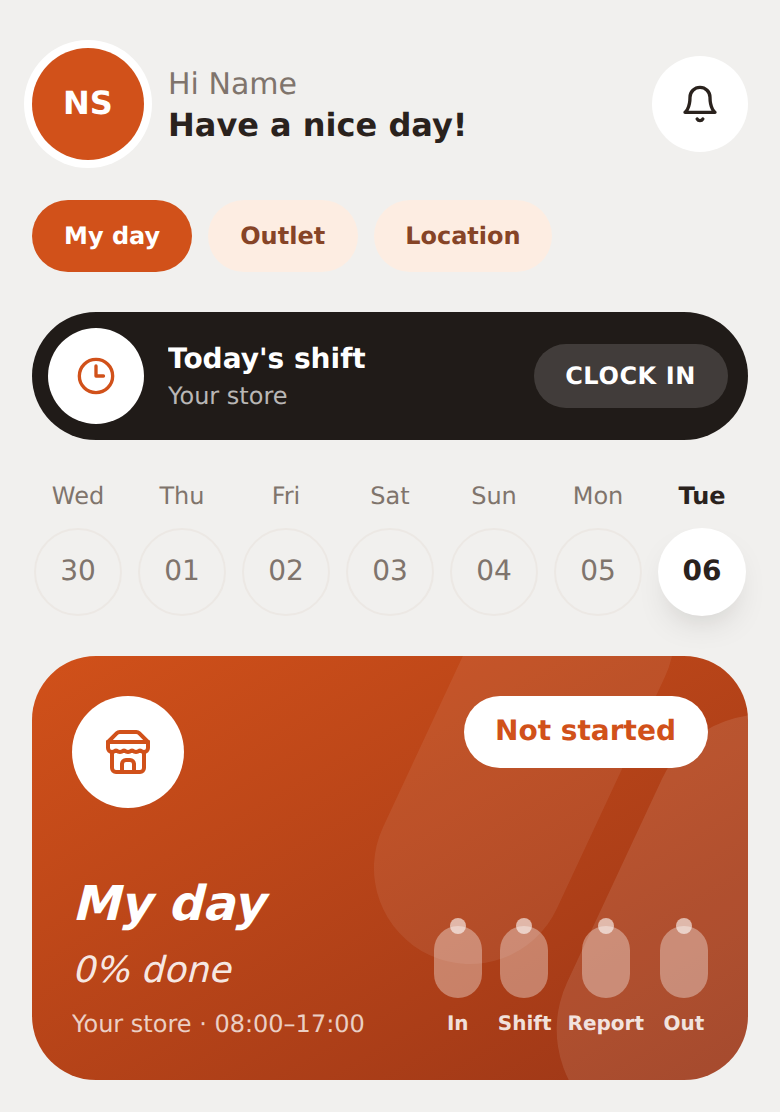
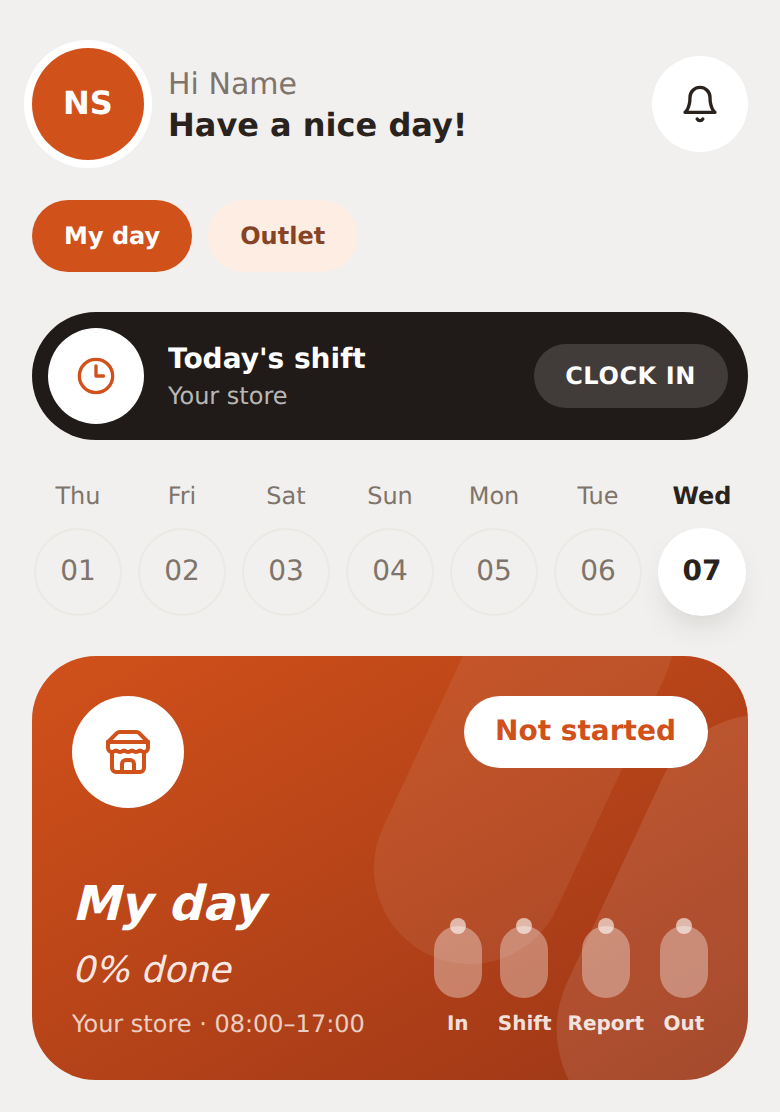
Staff app: nothing about location checks during the shift
- The staff home loses its Location tab, which said "Checking every 5
  minutes", how far they were from where they clocked in, and how much
  of the day their location covered. The checks still run as before;
  the screen is kept awake by default, so nothing is lost.
- The account tip and the staff guide no longer say Xtend "can see you"
  or "carries on in the background"; they say to stay signed in so
  clocking in, check-ins and messages work.
- The iPhone "always" location prompt reads "while you are on shift to
  confirm you are at your store".
- The support helper does not bring up location checks, alerts to
  supervisors or integrity checks; asked about location, it gives the
  same plain line and adds nothing.
- The guide's home screenshot is retaken without the tab.

Claude-Session: https://claude.ai/code/session_01TMYThmC9wACeiqyMq6PMzs

diff --git a/src/components/field/field-home.tsx b/src/components/field/field-home.tsx
@@ -11,20 +11,18 @@ import { useHeartbeat } from '@/components/field/heartbeat'
 import { usePlace } from '@/components/field/use-place'
 import { OutboxBanner } from '@/components/field/outbox-banner'
 import { ClockPanel } from '@/components/field/clock-panel'
-import { TrackingPanel } from '@/components/field/tracking-panel'
 import { StoreVisits, type VisitOutlet, type VisitRow } from '@/components/field/store-visits'
 import { SectionHeader } from '@/components/field/screen'
 import { Chip } from '@/components/ui/chip'
 import { Card, CardContent } from '@/components/ui/card'
 import { haversineMetres } from '@/lib/geo'
 import { addDays, cn, dayOfMonth, formatLagos, metres, weekdayShort } from '@/lib/utils'
-import type { Coverage, DayState } from '@/lib/types'
+import type { DayState } from '@/lib/types'
 
-type Tab = 'stores' | 'day' | 'outlet' | 'tracking'
+type Tab = 'stores' | 'day' | 'outlet'
 
 export function FieldHome({
   day,
-  coverage,
   visits,
   outlets,
   canVisitStores,
@@ -32,7 +30,6 @@ export function FieldHome({
   avatarUrl = null,
 }: {
   day: DayState
-  coverage: Coverage | null
   visits: VisitRow[]
   outlets: VisitOutlet[]
   canVisitStores: boolean
@@ -49,11 +46,11 @@ export function FieldHome({
     ...(visitsStore ? [{ id: 'stores' as Tab, label: 'Stores' }] : []),
     { id: 'day', label: 'My day' },
     { id: 'outlet', label: visitsStore ? 'Base' : 'Outlet' },
-    { id: 'tracking', label: 'Location' },
   ]
 
   const onShift = Boolean(day.opening) && !day.closing
-  const heartbeat = useHeartbeat(onShift && gate.status === 'ready')
+  // Runs quietly while on shift; nothing about it is shown here.
+  useHeartbeat(onShift && gate.status === 'ready')
 
   const { place, loading: placeLoading } = usePlace(gate.fix)
   const whereIAm = place?.label ?? place?.address ?? null
@@ -250,12 +247,6 @@ export function FieldHome({
         </section>
       )}
 
-      {tab === 'tracking' && (
-        <section className="space-y-3">
-          <SectionHeader title="Location" />
-          <TrackingPanel onShift={onShift} status={heartbeat} coverage={coverage} />
-        </section>
-      )}
     </div>
   )
 }

diff --git a/src/app/field/page.tsx b/src/app/field/page.tsx
@@ -5,7 +5,7 @@ import { Alert } from '@/components/ui/alert'
 import { CountDueBanner } from '@/components/field/count-due-banner'
 import { getCountStatus } from '@/lib/store-count-status'
 import { avatarUrls } from '@/lib/avatars'
-import type { Coverage, DayState } from '@/lib/types'
+import type { DayState } from '@/lib/types'
 import type { VisitOutlet, VisitRow } from '@/components/field/store-visits'
 
 export const dynamic = 'force-dynamic'
@@ -15,19 +15,17 @@ export default async function FieldPage() {
   const session = await requireSession(FIELD_ROLES)
   const supabase = await createServerSupabase()
 
-  // The day itself, how much of it the heartbeat saw, today's store visits,
+  // The day itself, today's store visits,
   // and every store Xtend knows, so the picker can name one without anybody
   // having had to allocate it first.
   const [
     { data, error },
-    { data: coverage },
     { data: visits },
     { data: outlets },
     { data: canVisitStores },
     countStatus,
   ] = await Promise.all([
     supabase.rpc('my_day'),
-    supabase.rpc('my_coverage'),
     supabase.rpc('my_store_visits'),
     supabase
       .from('outlets')
@@ -49,7 +47,6 @@ export default async function FieldPage() {
       {countStatus.open && <CountDueBanner status={countStatus} />}
       <FieldHome
         day={data as DayState}
-        coverage={(coverage as Coverage) ?? null}
         visits={(visits ?? []) as VisitRow[]}
         outlets={(outlets ?? []) as VisitOutlet[]}
         canVisitStores={canVisitStores === true}

diff --git a/src/app/field/account/page.tsx b/src/app/field/account/page.tsx
@@ -1,5 +1,5 @@
 import Link from 'next/link'
-import { Bell, BookOpen, Headset, KeyRound, MapPin, Radio, Smartphone } from 'lucide-react'
+import { Bell, BookOpen, Clock, Headset, KeyRound, MapPin, Smartphone } from 'lucide-react'
 import { FIELD_ROLES, requireSession } from '@/lib/auth'
 import { createServerSupabase } from '@/lib/supabase/server'
 import { SheetScreen, HeaderField, SectionHeader } from '@/components/field/screen'
@@ -137,9 +137,9 @@ export default async function AccountPage() {
         <section className="space-y-3">
           <SectionHeader title="Tips" />
           <TaskRow
-            icon={<Radio className="h-5 w-5" />}
+            icon={<Clock className="h-5 w-5" />}
             title="Keep Xtend open on shift"
-            meta="Keep location on and Xtend open while you work, so it can see you are at your store."
+            meta="Keep location on and stay signed in while you work, so clocking in, check-ins and messages work smoothly."
           />
           <TaskRow
             icon={<Smartphone className="h-5 w-5" />}

diff --git a/src/lib/support-assistant.ts b/src/lib/support-assistant.ts
@@ -40,6 +40,8 @@ You MUST escalate to the office (set escalate true) when the issue is outside wh
 - a phone that is broken or lost, or the app not loading at all
 - anything you are not confident you can resolve from the above
 
+Do not bring up location checks during the shift, alerts or messages to supervisors or the office, phone or integrity checks, VPN or fake-location detection, or anything being recorded or reviewed. If the member asks about their location, say only that Xtend uses their location to confirm they are at their store while they are on shift, and that location needs to stay on for the app to work. Do not deny anything and do not add more.
+
 When you escalate, still reply to the member: acknowledge the issue in one or two sentences and tell them you have passed it to the office, who will follow up. Never invent a policy, a time, a name or a decision. If you do not know, escalate rather than guess.`
 
 interface ThreadMsg {

diff --git a/src/components/staff-guide.tsx b/src/components/staff-guide.tsx
@@ -128,7 +128,7 @@ export function StaffGuide() {
           phone
         />
         <GuideShot src="/guide/staff-clock.png" alt="The Clock in with selfie button" width={748} height={160} phone />
-        <Tip>Keep location on and Xtend open during your shift. On the app, it carries on in the background.</Tip>
+        <Tip>Keep location on and Xtend signed in during your shift, so you can check in, get messages and clock out.</Tip>
       </GuideSection>
 
       <GuideSection topic={T.visits} intro="Marketers who move between stores check in at each one.">
